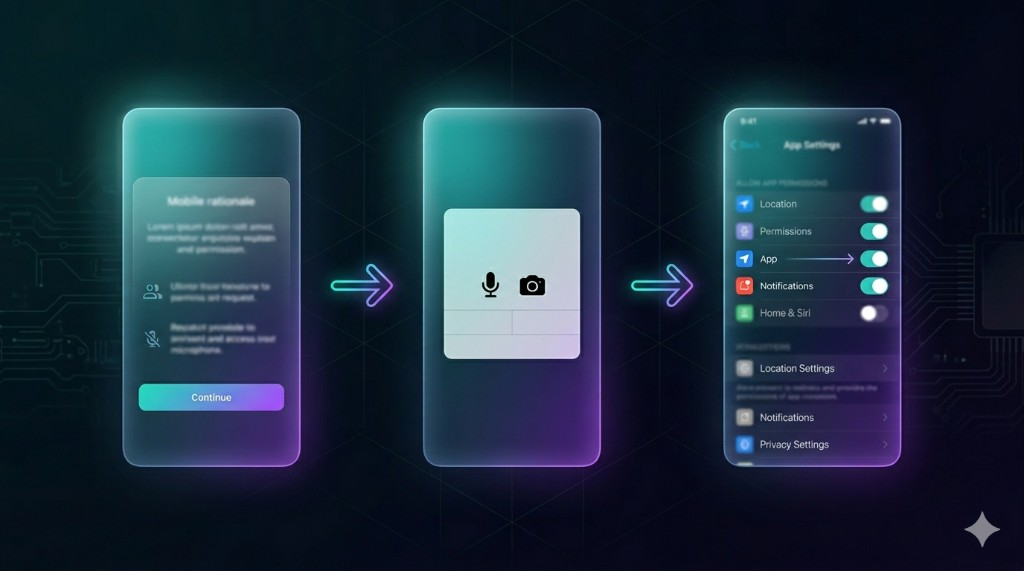
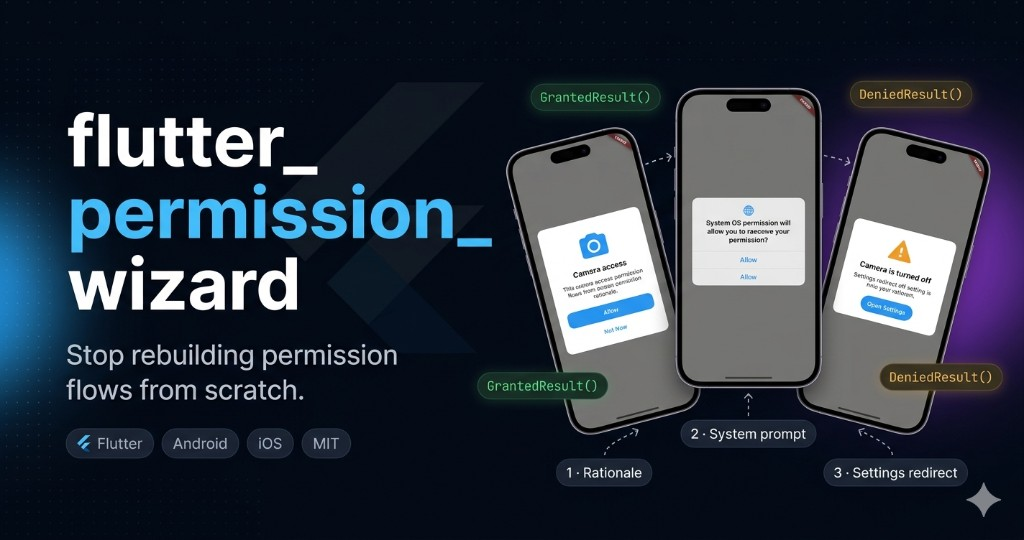
Release 0.1.4: new README cover image.

diff --git a/CHANGELOG.md b/CHANGELOG.md
@@ -1,5 +1,10 @@
 # Changelog
 
+## 0.1.4 — README cover
+
+### Changed
+- New README banner image (`doc/cover.png`).
+
 ## 0.1.3 — Pub hygiene, deps, and docs
 
 ### Changed

diff --git a/README.md b/README.md
@@ -1,7 +1,7 @@
 # flutter_permission_wizard
 
 <p align="center">
-  <img src="doc/cover.png" alt="Permission wizard flow: rationale, system dialog, settings" width="100%" />
+  <img src="doc/cover.png" alt="flutter_permission_wizard — rationale, system prompt, and settings recovery" width="100%" />
 </p>
 
 Hey — if you’ve ever shipped permissions in Flutter, you know the drill. [`permission_handler`](https://pub.dev/packages/permission_handler) tells you what the OS thinks… but it doesn’t help you *talk to humans*. Everyone ends up rebuilding the same story:
@@ -18,7 +18,7 @@ It rides on `permission_handler` (plus app settings under the hood), stays easy 
 
 ```yaml
 dependencies:
-  flutter_permission_wizard: ^0.1.3
+  flutter_permission_wizard: ^0.1.4
 ```
 
 `flutter pub get`, then carry on. Whatever platform strings or manifest lines your permissions need — camera, mic, photos — that doesn’t magically disappear; this just handles the *conversation* with your user.